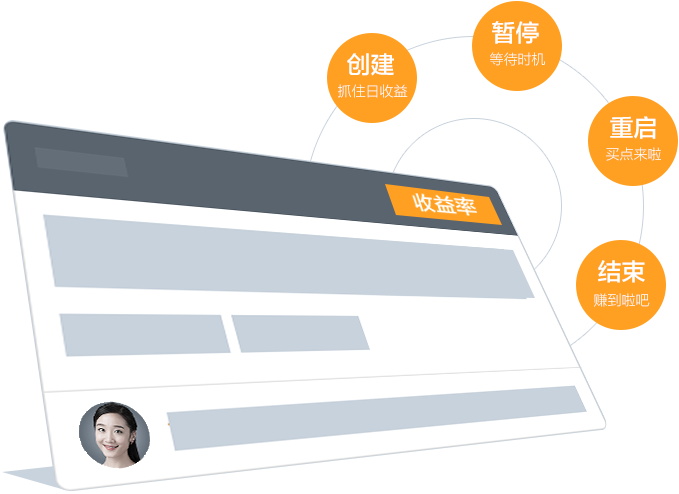
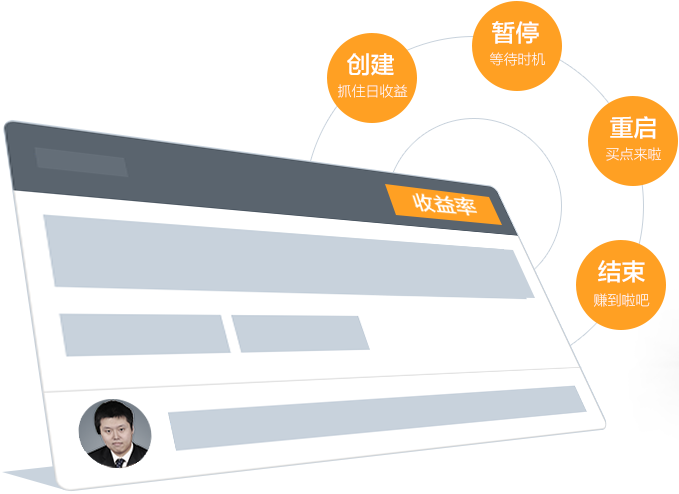
update

Changed region(s): [[0.0928, 0.7895, 0.2474, 0.9717]]

diff --git a/xgb/index.html b/xgb/index.html
@@ -51,10 +51,10 @@
             </div>
             <div class="person clr">
                 <div class="person-one">
-                    <img src="images/person1.png" alt=""/>
+                    <img src="images/xiegang.png" alt=""/>
                     <div class="person-one-info">
-                        <p class="name">康雅雯</p>
-                        <p class="job-title">传媒互联网行业研究新生力量</p>
+                        <p class="name">谢刚</p>
+                        <p class="job-title">齐鲁证券研究所所长</p>
                     </div>
                 </div>
                 <div class="person-two">
@@ -65,10 +65,10 @@
                     </div>
                 </div>
                 <div class="person-three">
-                    <img src="images/person3.png" alt=""/>
+                    <img src="images/person1.png" alt=""/>
                     <div class="person-three-info">
-                        <p class="name">成胜</p>
-                        <p class="job-title">五年五获金牛的基金经理</p>
+                        <p class="name">康雅雯</p>
+                        <p class="job-title">传媒互联网行业研究新生力量</p>
                     </div>
                 </div>
             </div>

diff --git a/xgb/styles/build.css b/xgb/styles/build.css
@@ -175,9 +175,12 @@ ul,ol{
     bottom: 26px;
 }
 .person-one-info{
+    margin-left: 127px;
+}
+.person-three-info{
     margin-left: 99px;
 }
-.person-two-info,.person-three-info{
+.person-two-info{
     margin-left: 113px;
 }
 .container-sm{
